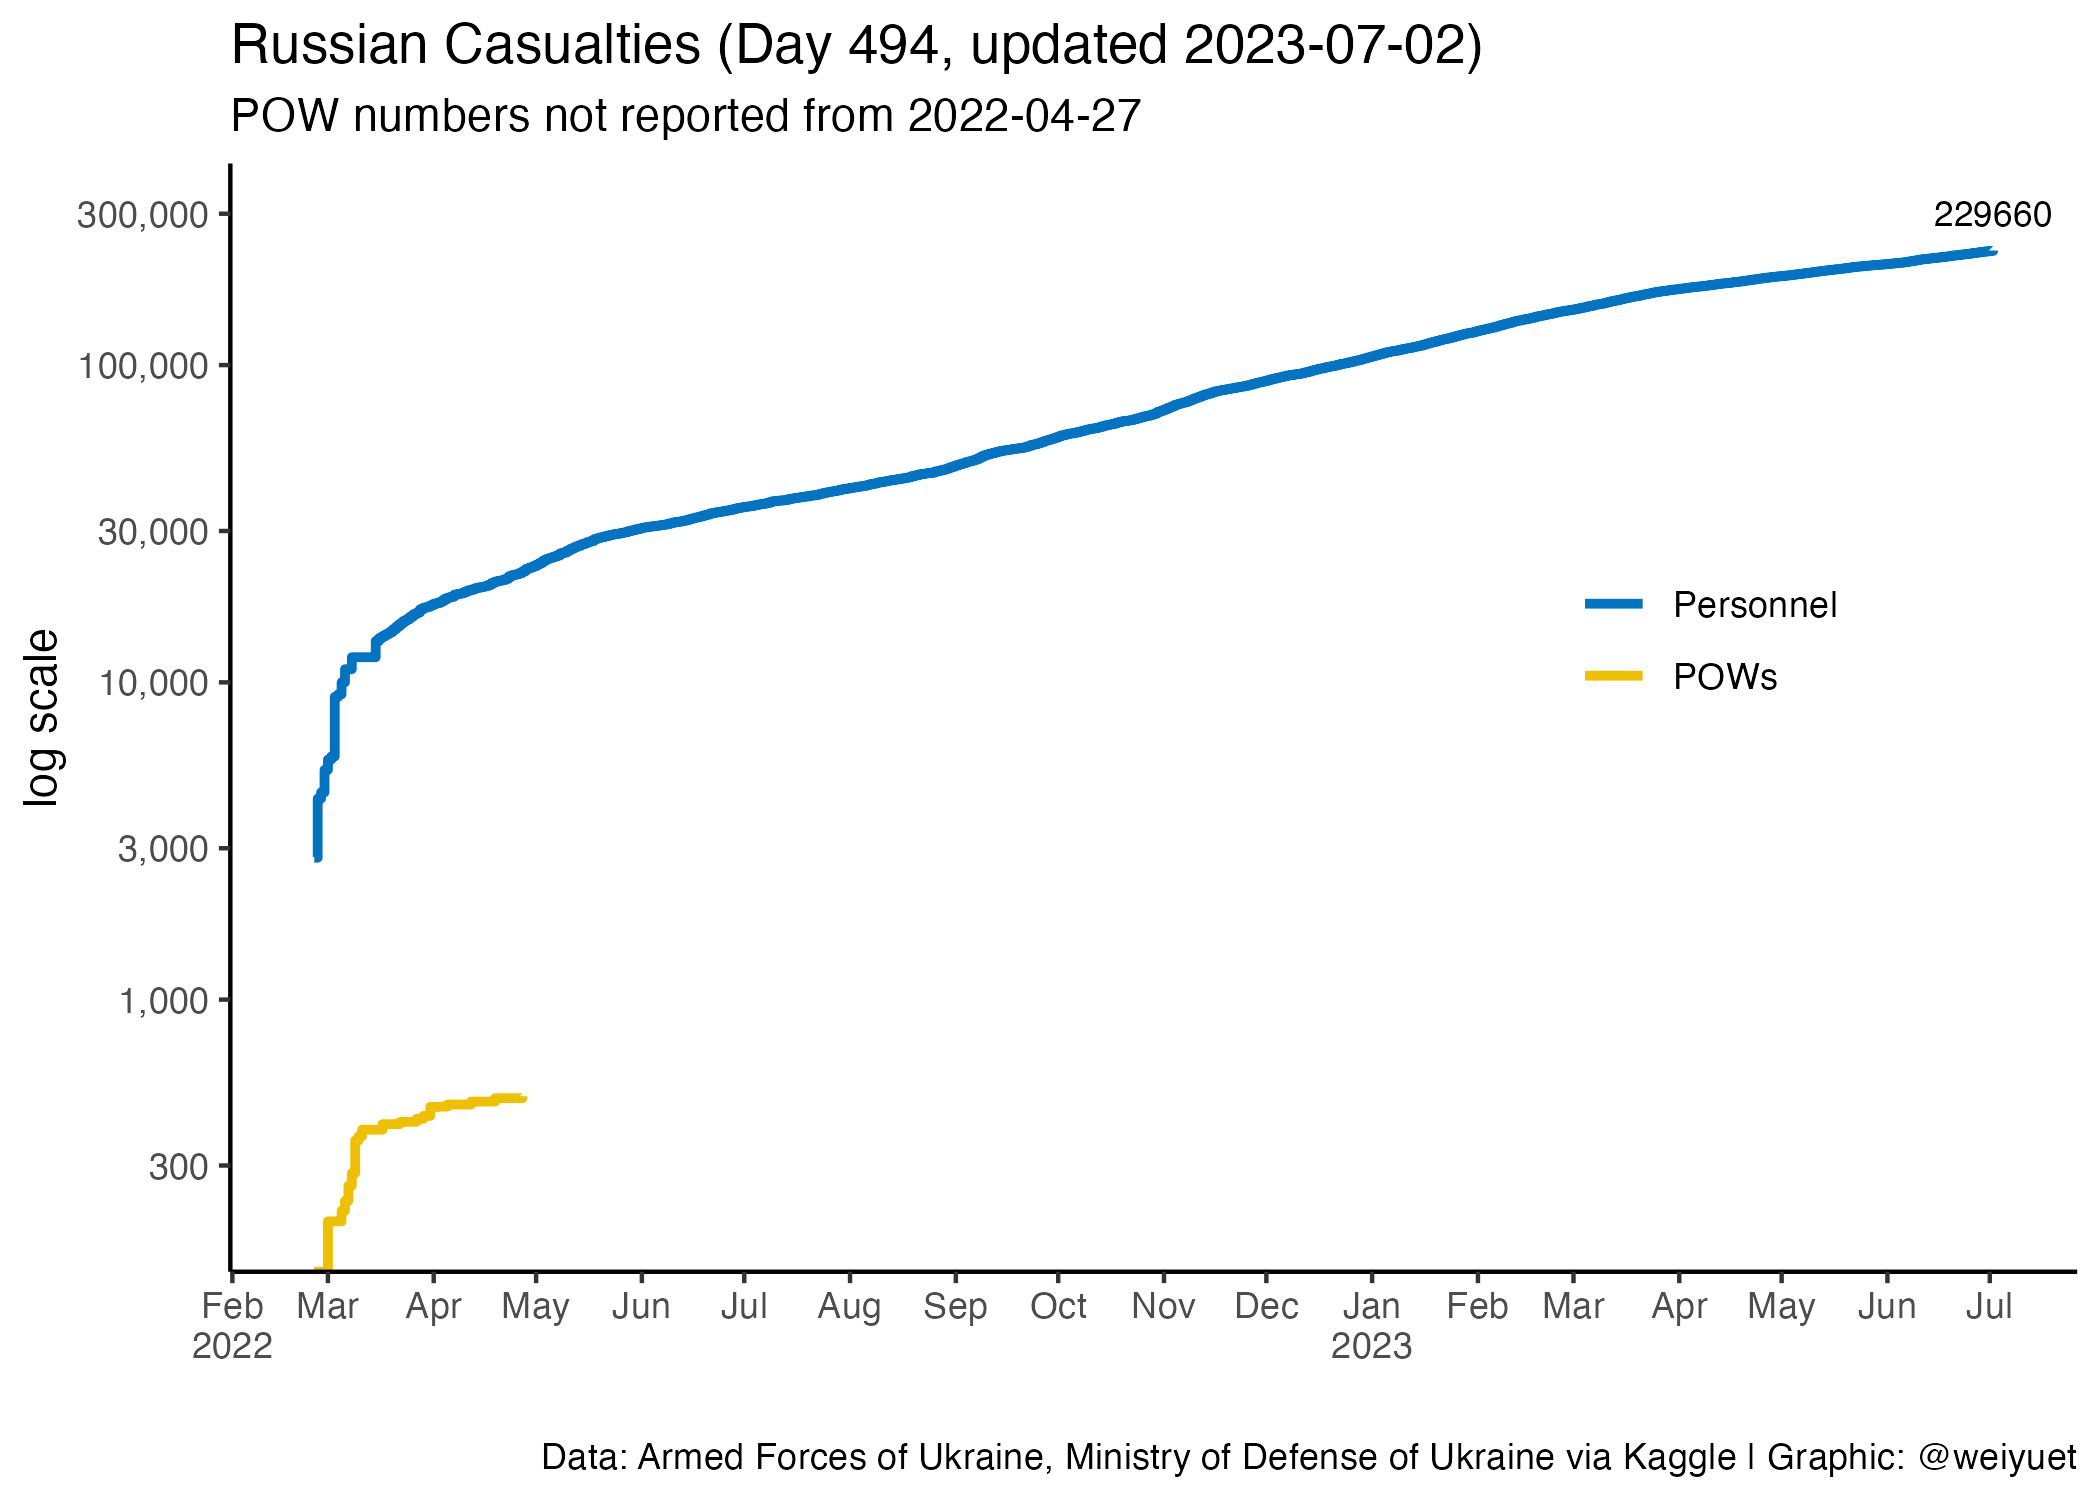
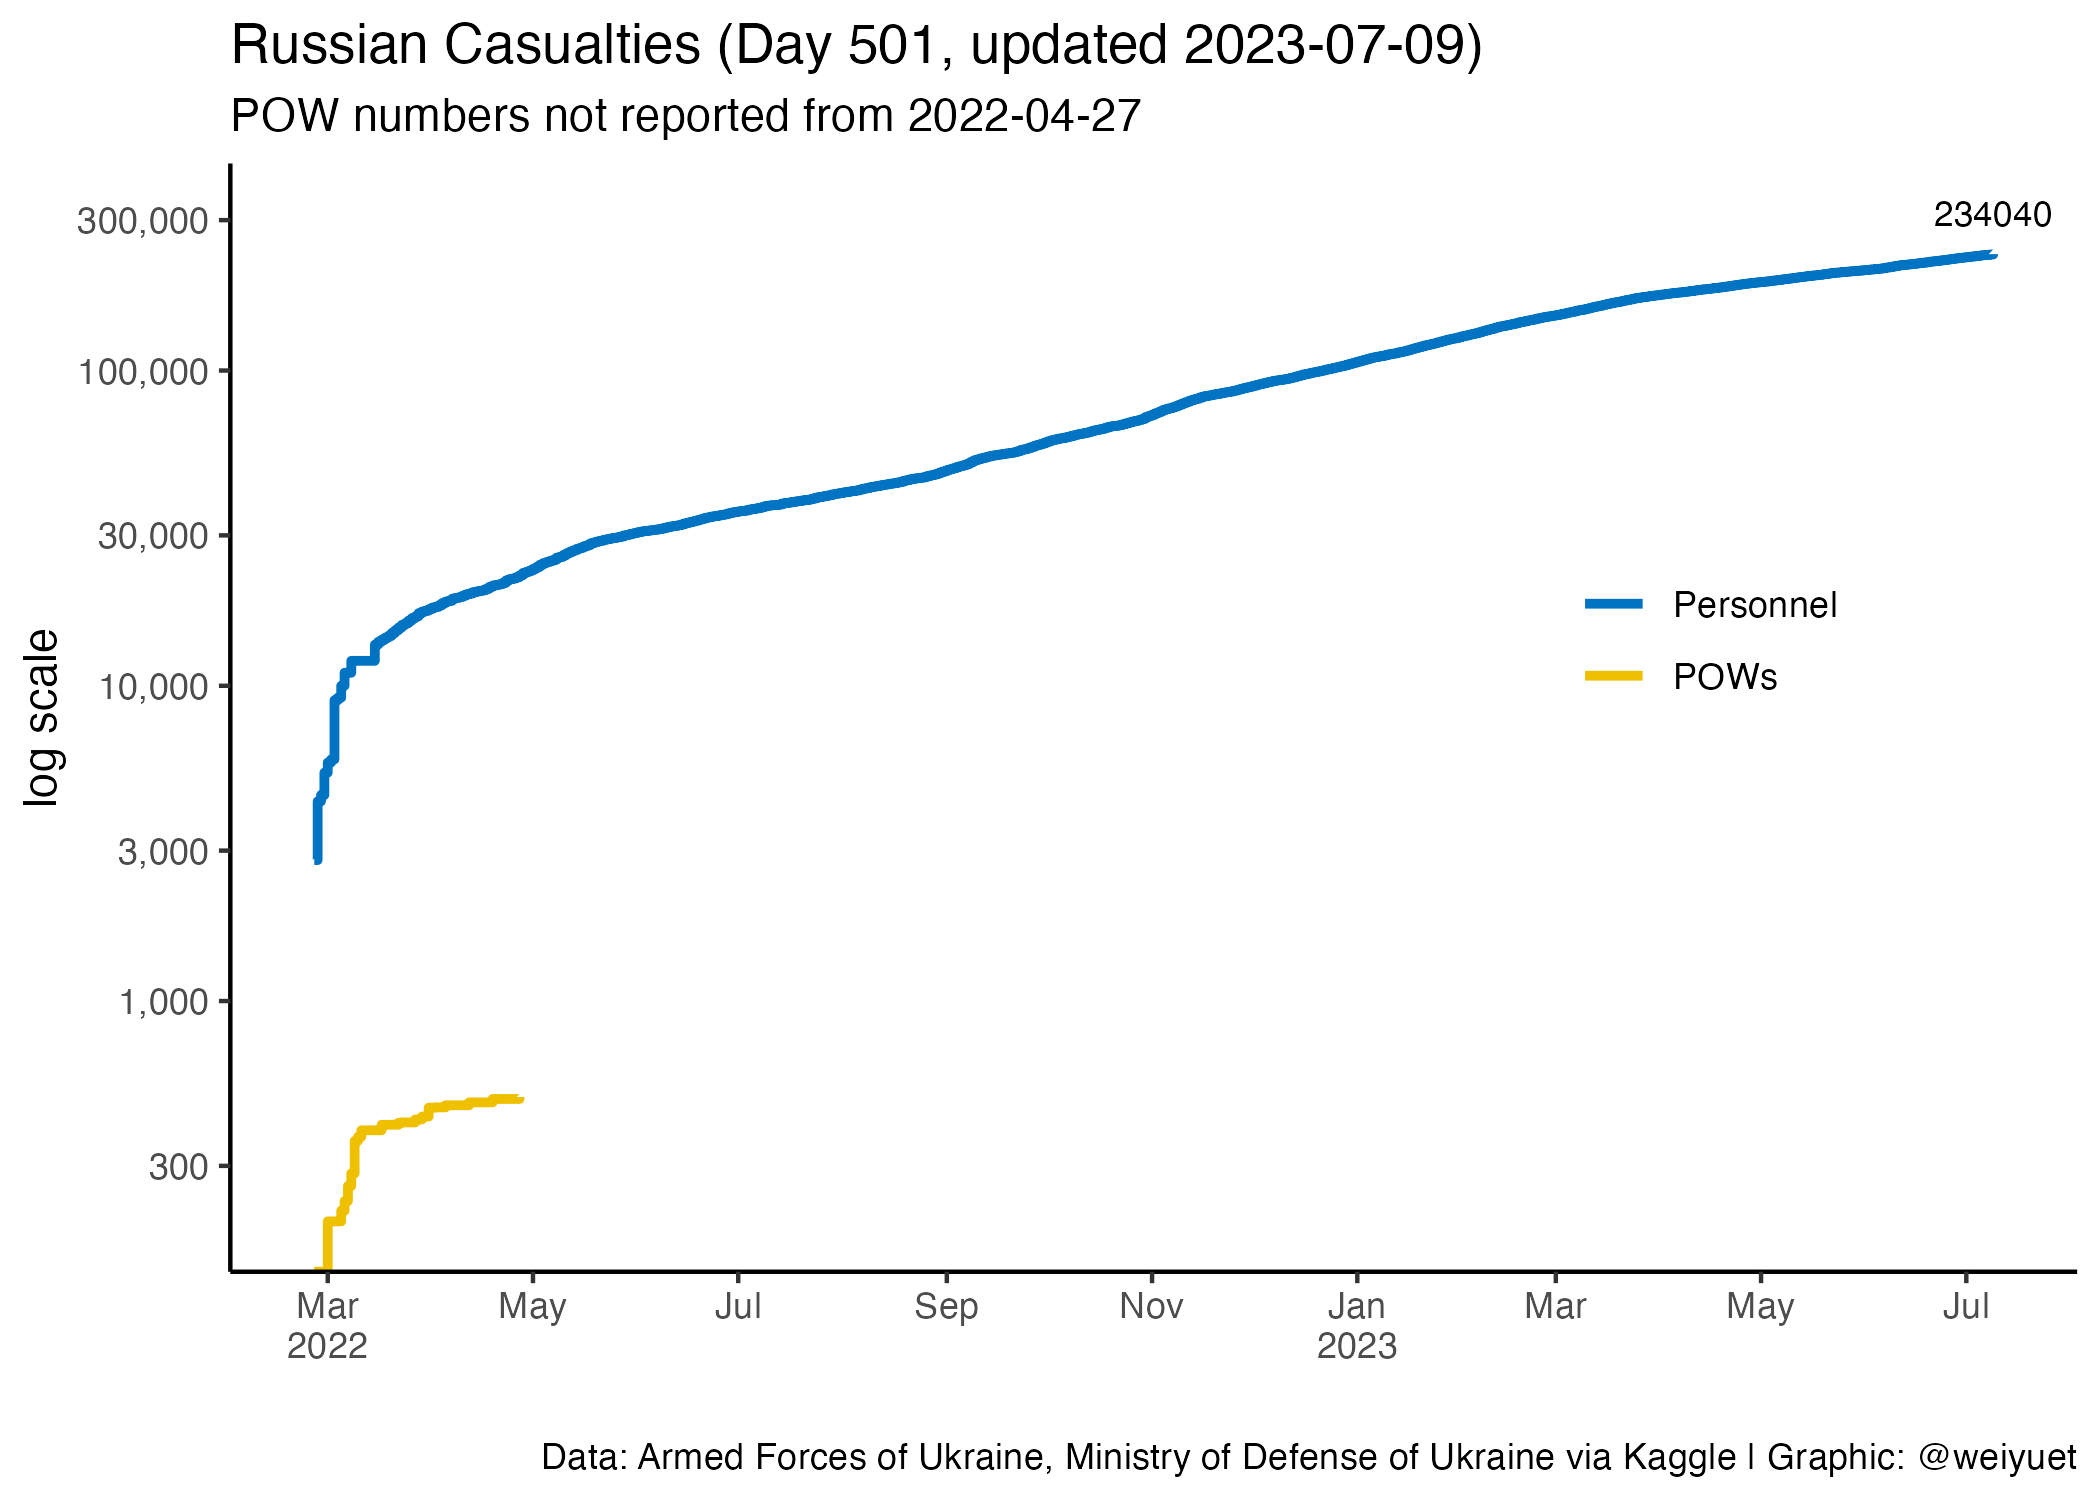
Updated 9 July

diff --git a/README.md b/README.md
@@ -6,7 +6,7 @@ Wong Wei Yuet 2022-05-26
 
   - War casualty data updated daily from [`Petro Ivanyuk's Kaggle`](https://www.kaggle.com/datasets/piterfm/2022-ukraine-russian-war). All data is official and put together by `Petro`
 
-Updated: 2023-07-04
+Updated: 2023-07-09
 
 ## Summary of Conflict
 
